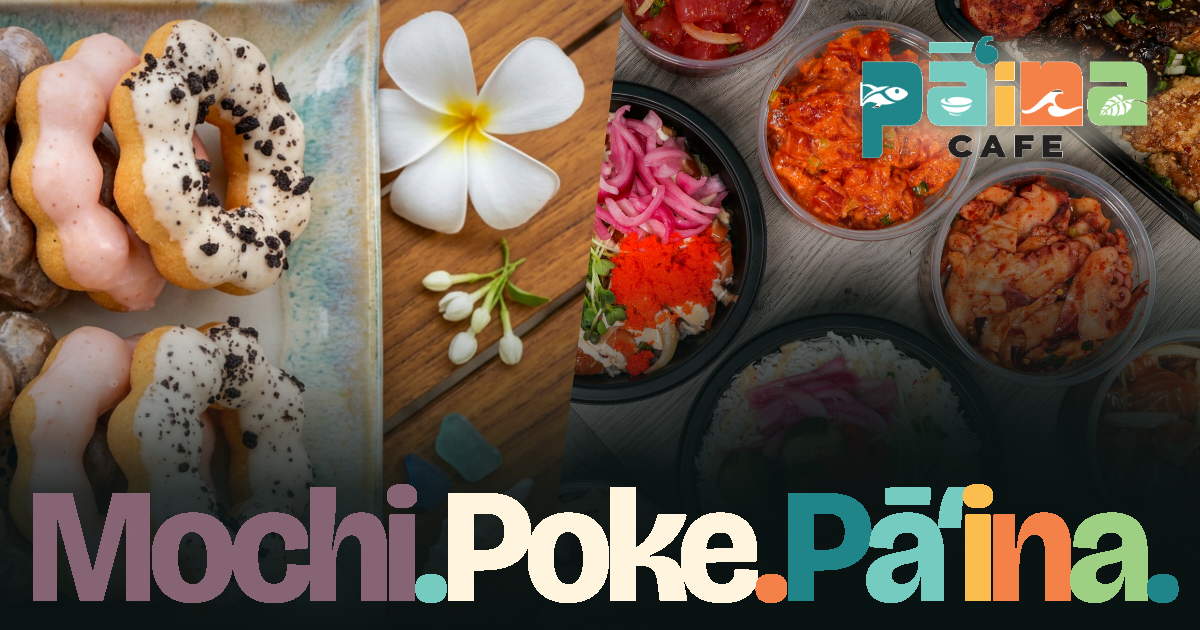
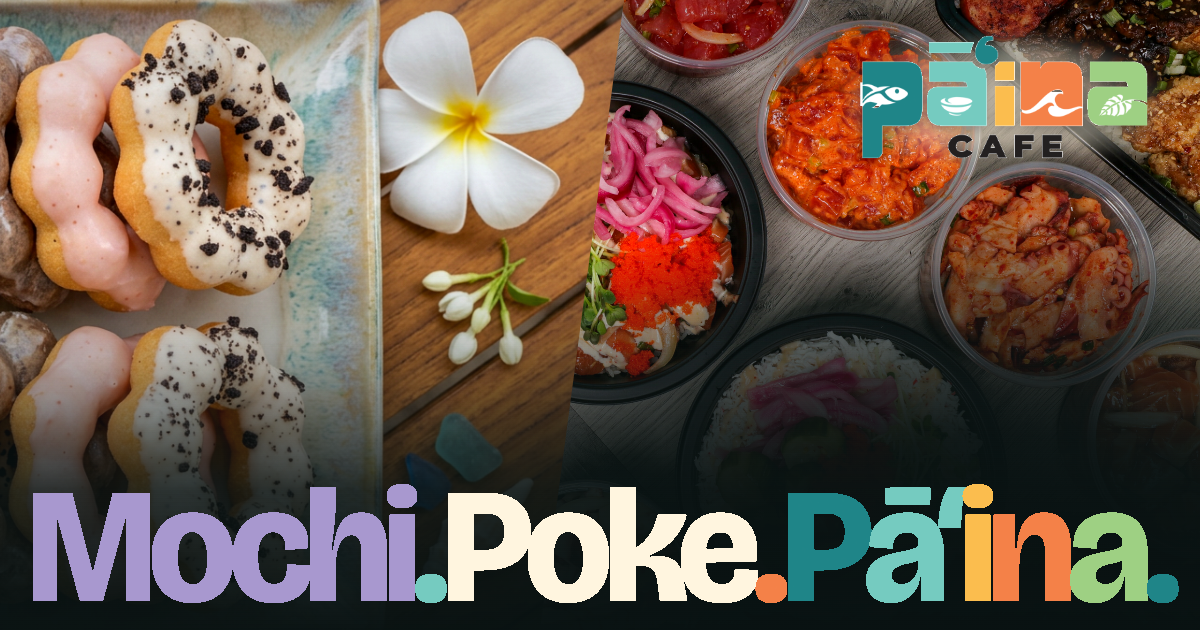
Use the owner-supplied Paina purple

Changed region(s): [[0.0, 0.754, 0.37, 0.9651]]

diff --git a/app/layout.tsx b/app/layout.tsx
@@ -4,7 +4,7 @@ import './globals.css';
 const siteBase = new URL(
   process.env.NEXT_PUBLIC_SITE_URL ?? 'https://paina.jarrettwroten.com',
 );
-const socialCardPath = '/paina-social-card-113effa5.png';
+const socialCardPath = '/paina-social-card-a0b27d26.png';
 const socialCardUrl = new URL(socialCardPath, siteBase).toString();
 
 export const metadata: Metadata = {

diff --git a/SOURCES.md b/SOURCES.md
@@ -32,8 +32,8 @@ Exact source hashes, site-derivative hashes, dimensions, durations, edit ranges,
 
 - `public/media/logo.png` — current Paina Cafe / DoorDash-hosted logo from https://doordash-static.s3-us-west-2.amazonaws.com/media/restaurant/cover/PainaCafe_6870_Las_Vegas_NV.png
 - `public/media/logo-transparent.png` — exact 440×230 derivative of the same logo. Exterior near-white pixels were removed while the enclosed white fish, bowl, wave, and leaf artwork was retained; no generative redraw is used by the site.
[1 lines of base64/hex data omitted]
-- `public/paina-social-card-748720b7.png`, `public/paina-social-card-v2.png`, `public/paina-social-card.png`, and `public/og.png` — legacy preview aliases preserved for previously shared or convention-based URLs. Each file is byte-identical to the canonical image above, so every supported preview path returns the same approved purple-Mochi thumbnail and no alternate artwork remains public.
[1 lines of base64/hex data omitted]
+- `public/paina-social-card-113effa5.png`, `public/paina-social-card-748720b7.png`, `public/paina-social-card-v2.png`, `public/paina-social-card.png`, and `public/og.png` — legacy preview aliases preserved for previously shared or convention-based URLs. Each file is byte-identical to the canonical image above, so every supported preview path returns the same approved swatch-matched thumbnail and no alternate artwork remains public.
 - `public/favicon.ico` — a 64-pixel padded derivative of the same official logo.
 
 ## Dated facts and decisions
